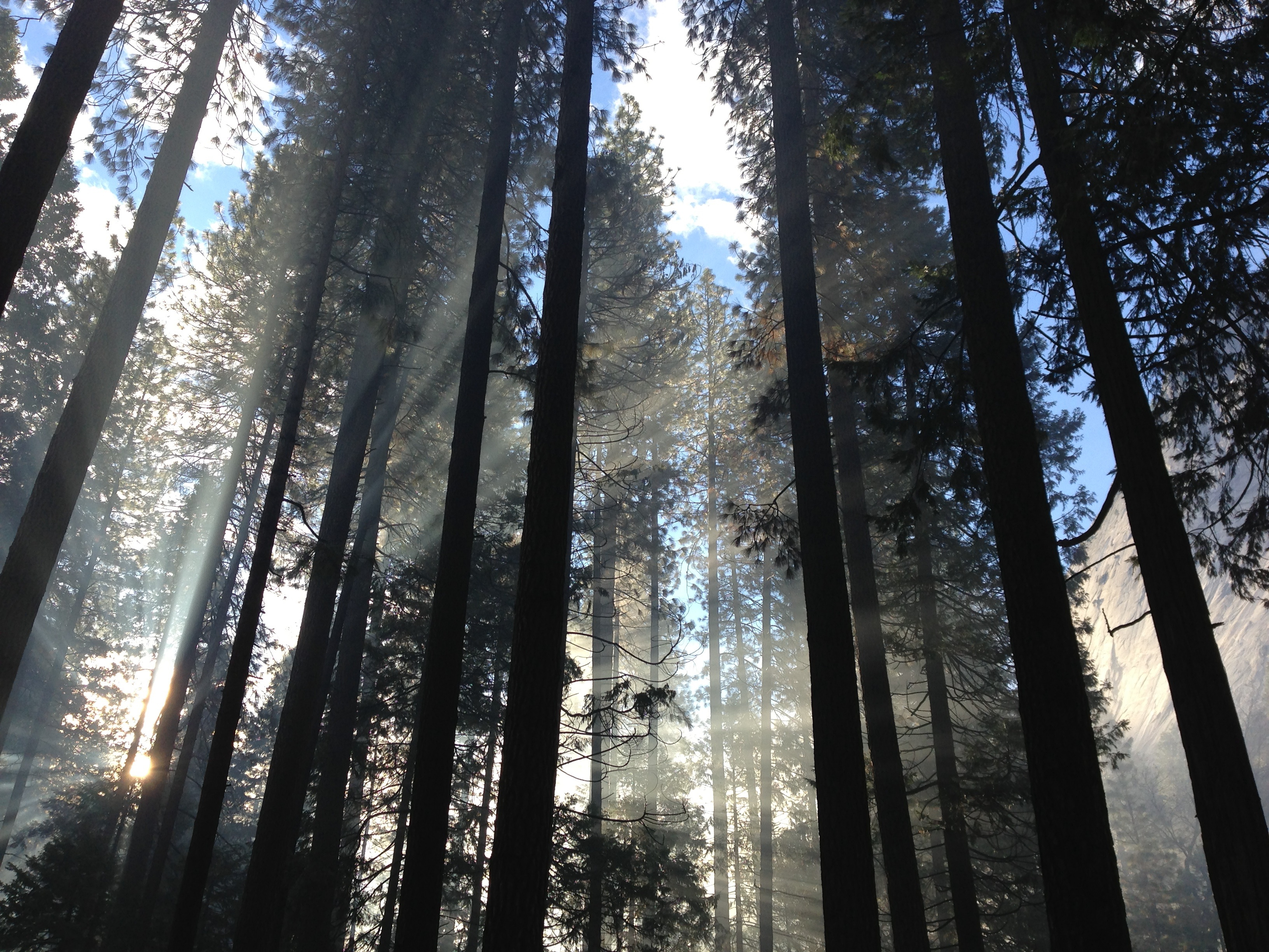
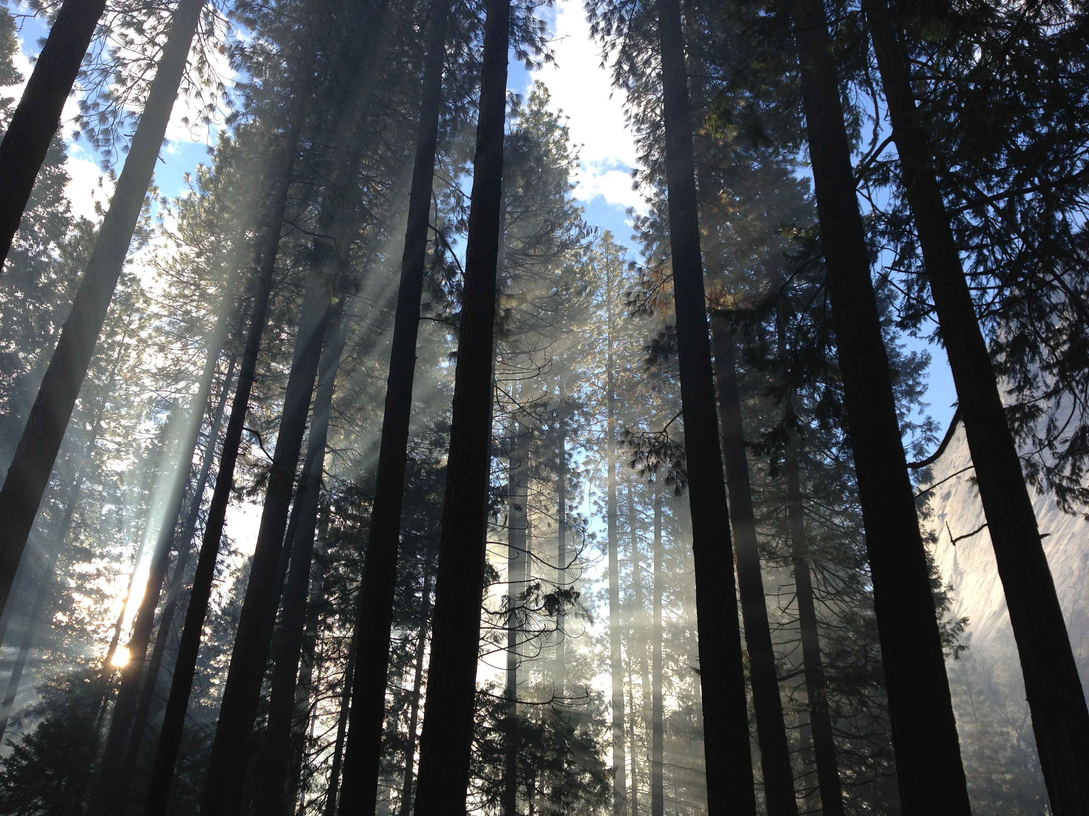
image compression and editing

diff --git a/gulpfile.js b/gulpfile.js
@@ -1,19 +1,19 @@
-var gulp = require('gulp');
-var gulpNgConfig = require('gulp-ng-config');
-var gnf = require('gulp-npm-files');
-var concat = require('gulp-concat');
-var uglify = require('gulp-uglify');
-var ngAnnotate = require('gulp-ng-annotate');
-var sourcemaps = require('gulp-sourcemaps');
-var stylus = require('gulp-stylus');
-var nodemon = require('gulp-nodemon');
-
+const gulp = require('gulp');
+const gulpNgConfig = require('gulp-ng-config');
+const gnf = require('gulp-npm-files');
+const concat = require('gulp-concat');
+const uglify = require('gulp-uglify');
+const imagemin = require('gulp-imagemin');
+const ngAnnotate = require('gulp-ng-annotate');
+const sourcemaps = require('gulp-sourcemaps');
+const stylus = require('gulp-stylus');
+const nodemon = require('gulp-nodemon');
 
 gulp.task('default', ['prod']);
 
 gulp.task('prod', ['set-prod', 'build']);
 
-gulp.task('dev', ['set-dev', 'build', 'watch:js', 'watch:html', 'watch:css', 'dev:server']);
+gulp.task('dev', ['set-dev', 'build', 'watch:js', 'watch:html', 'watch:css', 'watch:images', 'dev:server']);
 
 gulp.task('build', ['libs', 'images', 'js', 'html', 'css']);
 
@@ -66,9 +66,11 @@ gulp.task('css', function () {
 
 gulp.task('images', function () {
     gulp.src(['public/images/*.*'])
-        .pipe(gulp.dest('assets'))
+        .pipe(imagemin({
+            progressive: true
+        }))
+        .pipe(gulp.dest('assets/images'))
 });
-
 
 // Dev Tasks
 
@@ -90,4 +92,8 @@ gulp.task('watch:html', ['html'], function () {
 
 gulp.task('watch:css', ['css'], function () {
     gulp.watch('public/**/*.styl', ['css']);
+});
+
+gulp.task('watch:images', ['images'], function () {
+    gulp.watch('public/images/*.*', ['images']);
 });

diff --git a/public/index.html b/public/index.html
@@ -2,8 +2,8 @@
 <html lang="en">
 <head>
     <title>SampleIt.</title>
-    <meta name="viewport" content="width=device-width, initial-scale=1, maximum-scale=1, user-scalable=no">
     <link href="favicon.png" type="image/png" rel="shortcut icon">
+
     <link rel="stylesheet" href="/libs/bootstrap/dist/css/bootstrap.min.css">
     <link rel="stylesheet" href="/libs/angular-chart.js/dist/angular-chart.css">
     <link rel="stylesheet" href="/libs/angularjs-slider/dist/rzslider.min.css">
@@ -16,7 +16,7 @@
 
 <header class="navbar navbar-default navbar-inner">
     <div class="container">
-        <div class="navbar-header">
+        <div ng-cloak class="navbar-header">
             <button class="navbar-toggle" type="button" ng-click="collapseToggle = !collapseToggle">
                 <span class="icon-bar"></span>
                 <span class="icon-bar"></span>
@@ -53,7 +53,6 @@
         </p>
     </div>
 </footer>
-
 
 <script src="/libs/angular/angular.min.js"></script>
 <script src="/libs/angular-route/angular-route.min.js"></script>

diff --git a/public/lost/lost.html b/public/lost/lost.html
@@ -1,4 +1,4 @@
-<div class="jumbotron jumbotron-lost">
+<div ng-cloak class="jumbotron jumbotron-lost">
     <div class="jumbotron-header">
         <h1>404... :/</h1>
         <p>The page you're after doesn't exist. To distract you from this fact, consider the below: </p>

diff --git a/server.js b/server.js
@@ -3,7 +3,7 @@ var favicon = require('serve-favicon');
 
 var app = express();
 
-app.use(favicon(__dirname + '/assets/favicon.png'));
+app.use(favicon(__dirname + '/assets/images/favicon.png'));
 
 app.use(express.static('assets'));
 

diff --git a/public/home/home.html b/public/home/home.html
@@ -1,4 +1,4 @@
-<div class="jumbotron">
+<div ng-cloak class="jumbotron">
     <div class="jumbotron-header">
         <h1>SampleIt.</h1>
         <p>Here you can explore the internals of your machine. Click below to begin.</p>

diff --git a/public/memory/memory.html b/public/memory/memory.html
@@ -1,5 +1,5 @@
 <!-- TODO containers shouldn't be nested -->
-<div class="container">
+<div ng-cloak class="container">
 
     <!-- TODO containers shouldn't be nested -->
     <div class="container">

diff --git a/public/metadata/metadata.html b/public/metadata/metadata.html
@@ -1,5 +1,5 @@
 <!-- TODO containers shouldn't be nested -->
-<div class="container">
+<div ng-cloak class="container">
 
     <!-- TODO containers shouldn't be nested -->
     <div class="container">

diff --git a/public/host/host-modal.html b/public/host/host-modal.html
@@ -1,4 +1,4 @@
-<div class="modal-header">
+<div ng-cloak class="modal-header">
     <h3 class="modal-title">Modify the name of this Machine.</h3>
 </div>
 <div class="modal-body">
